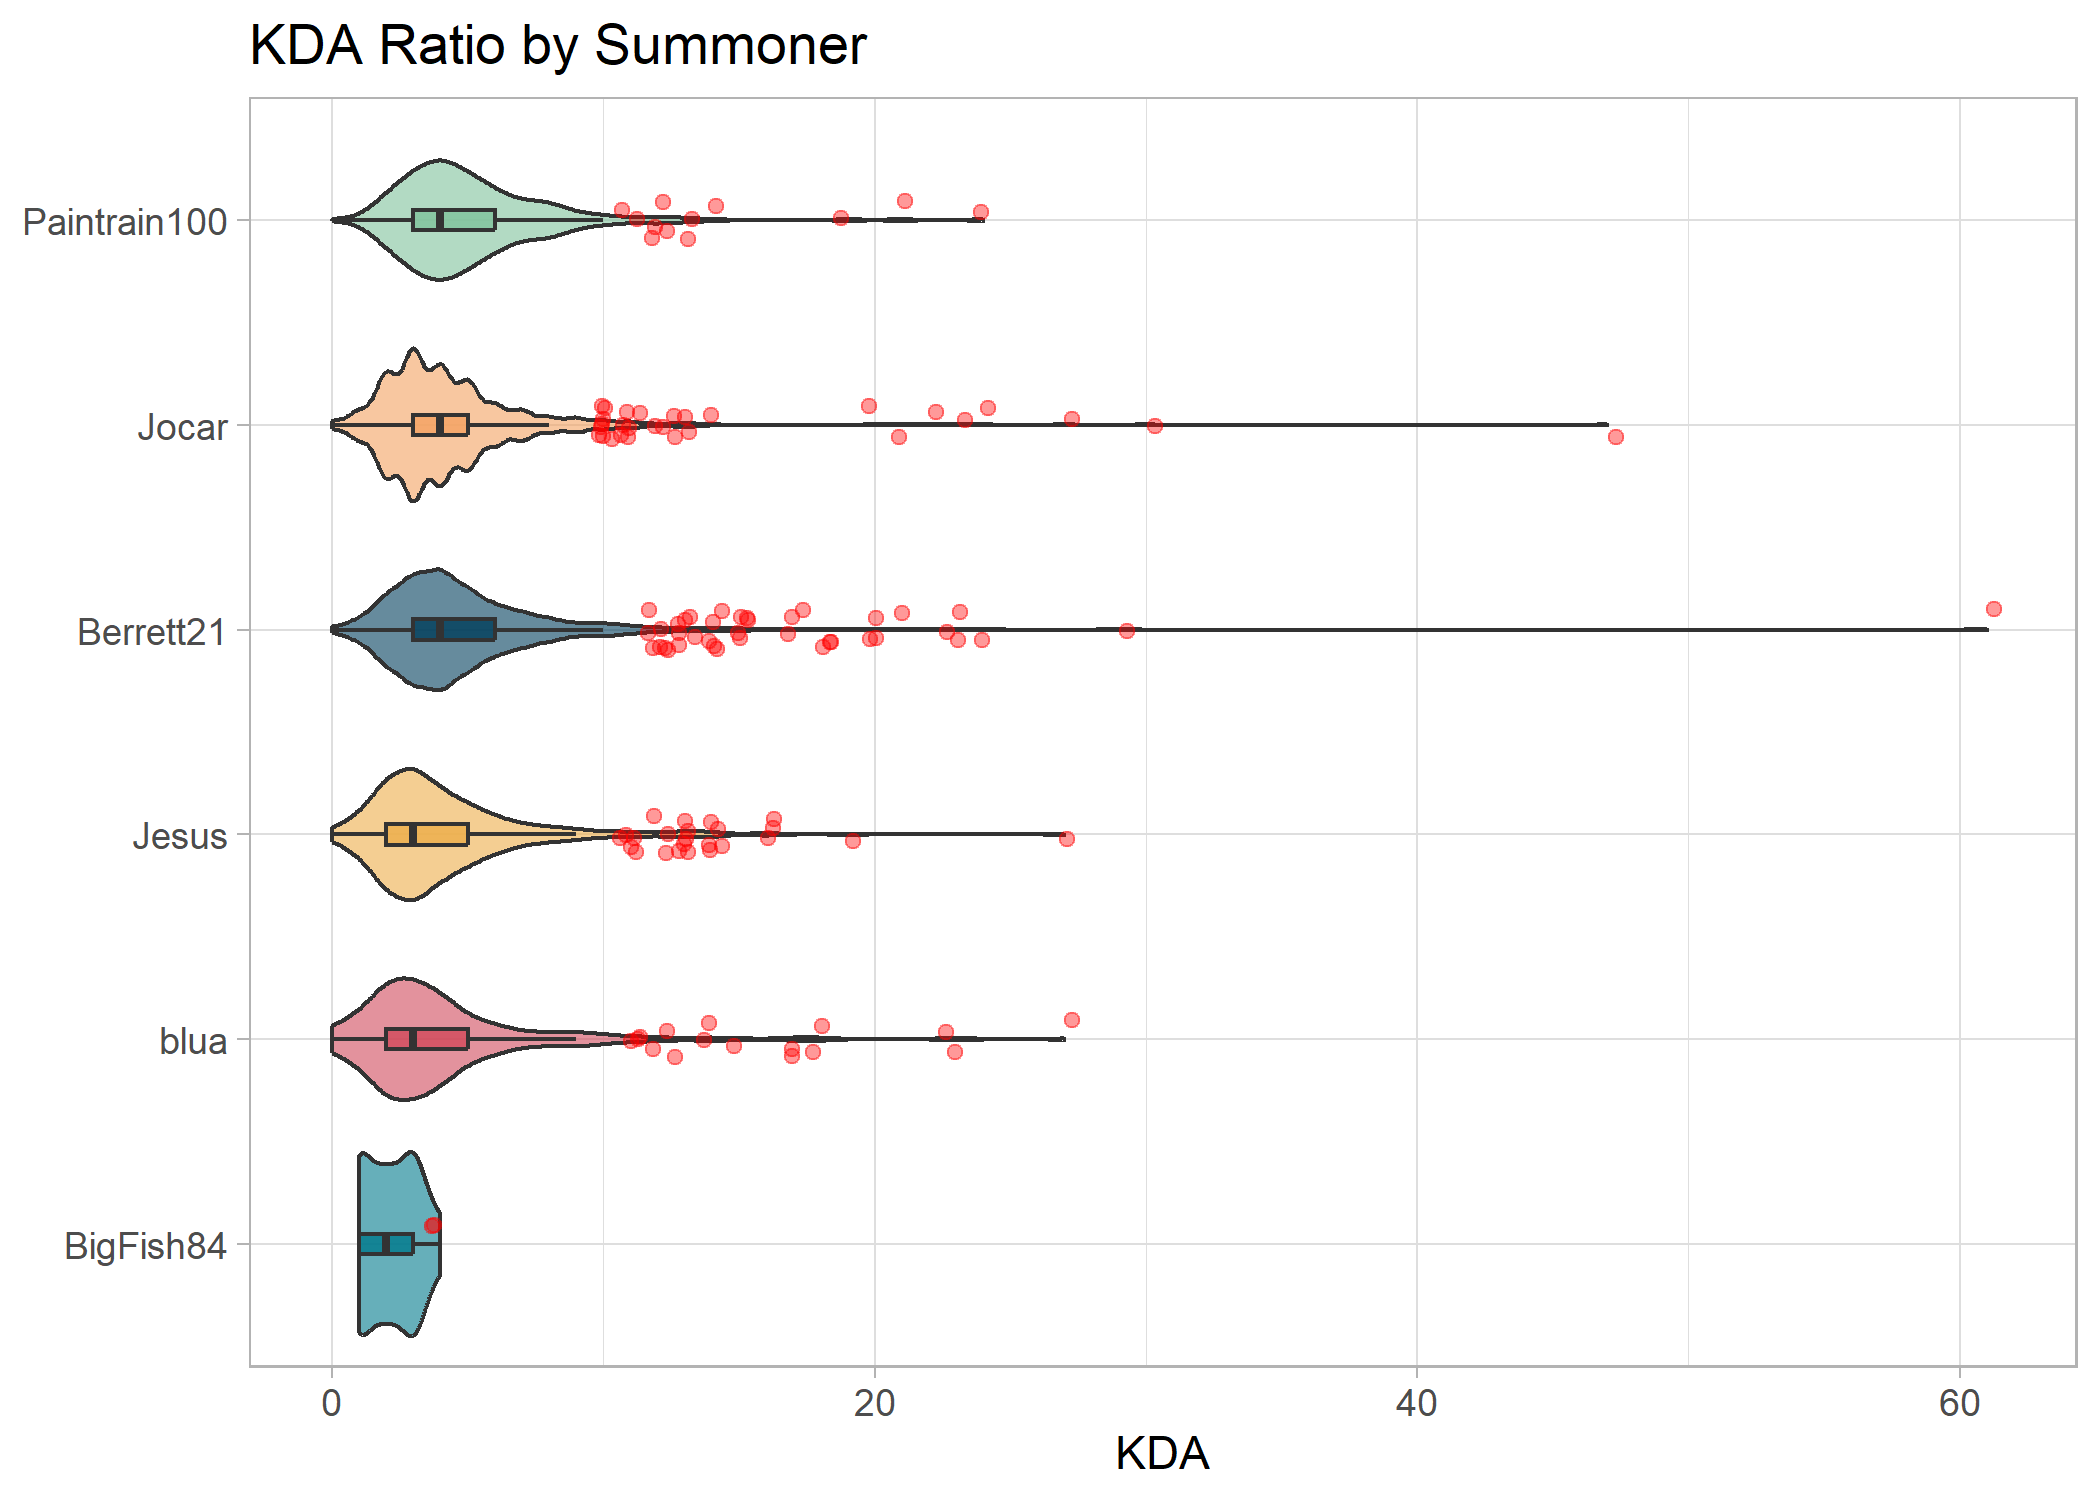
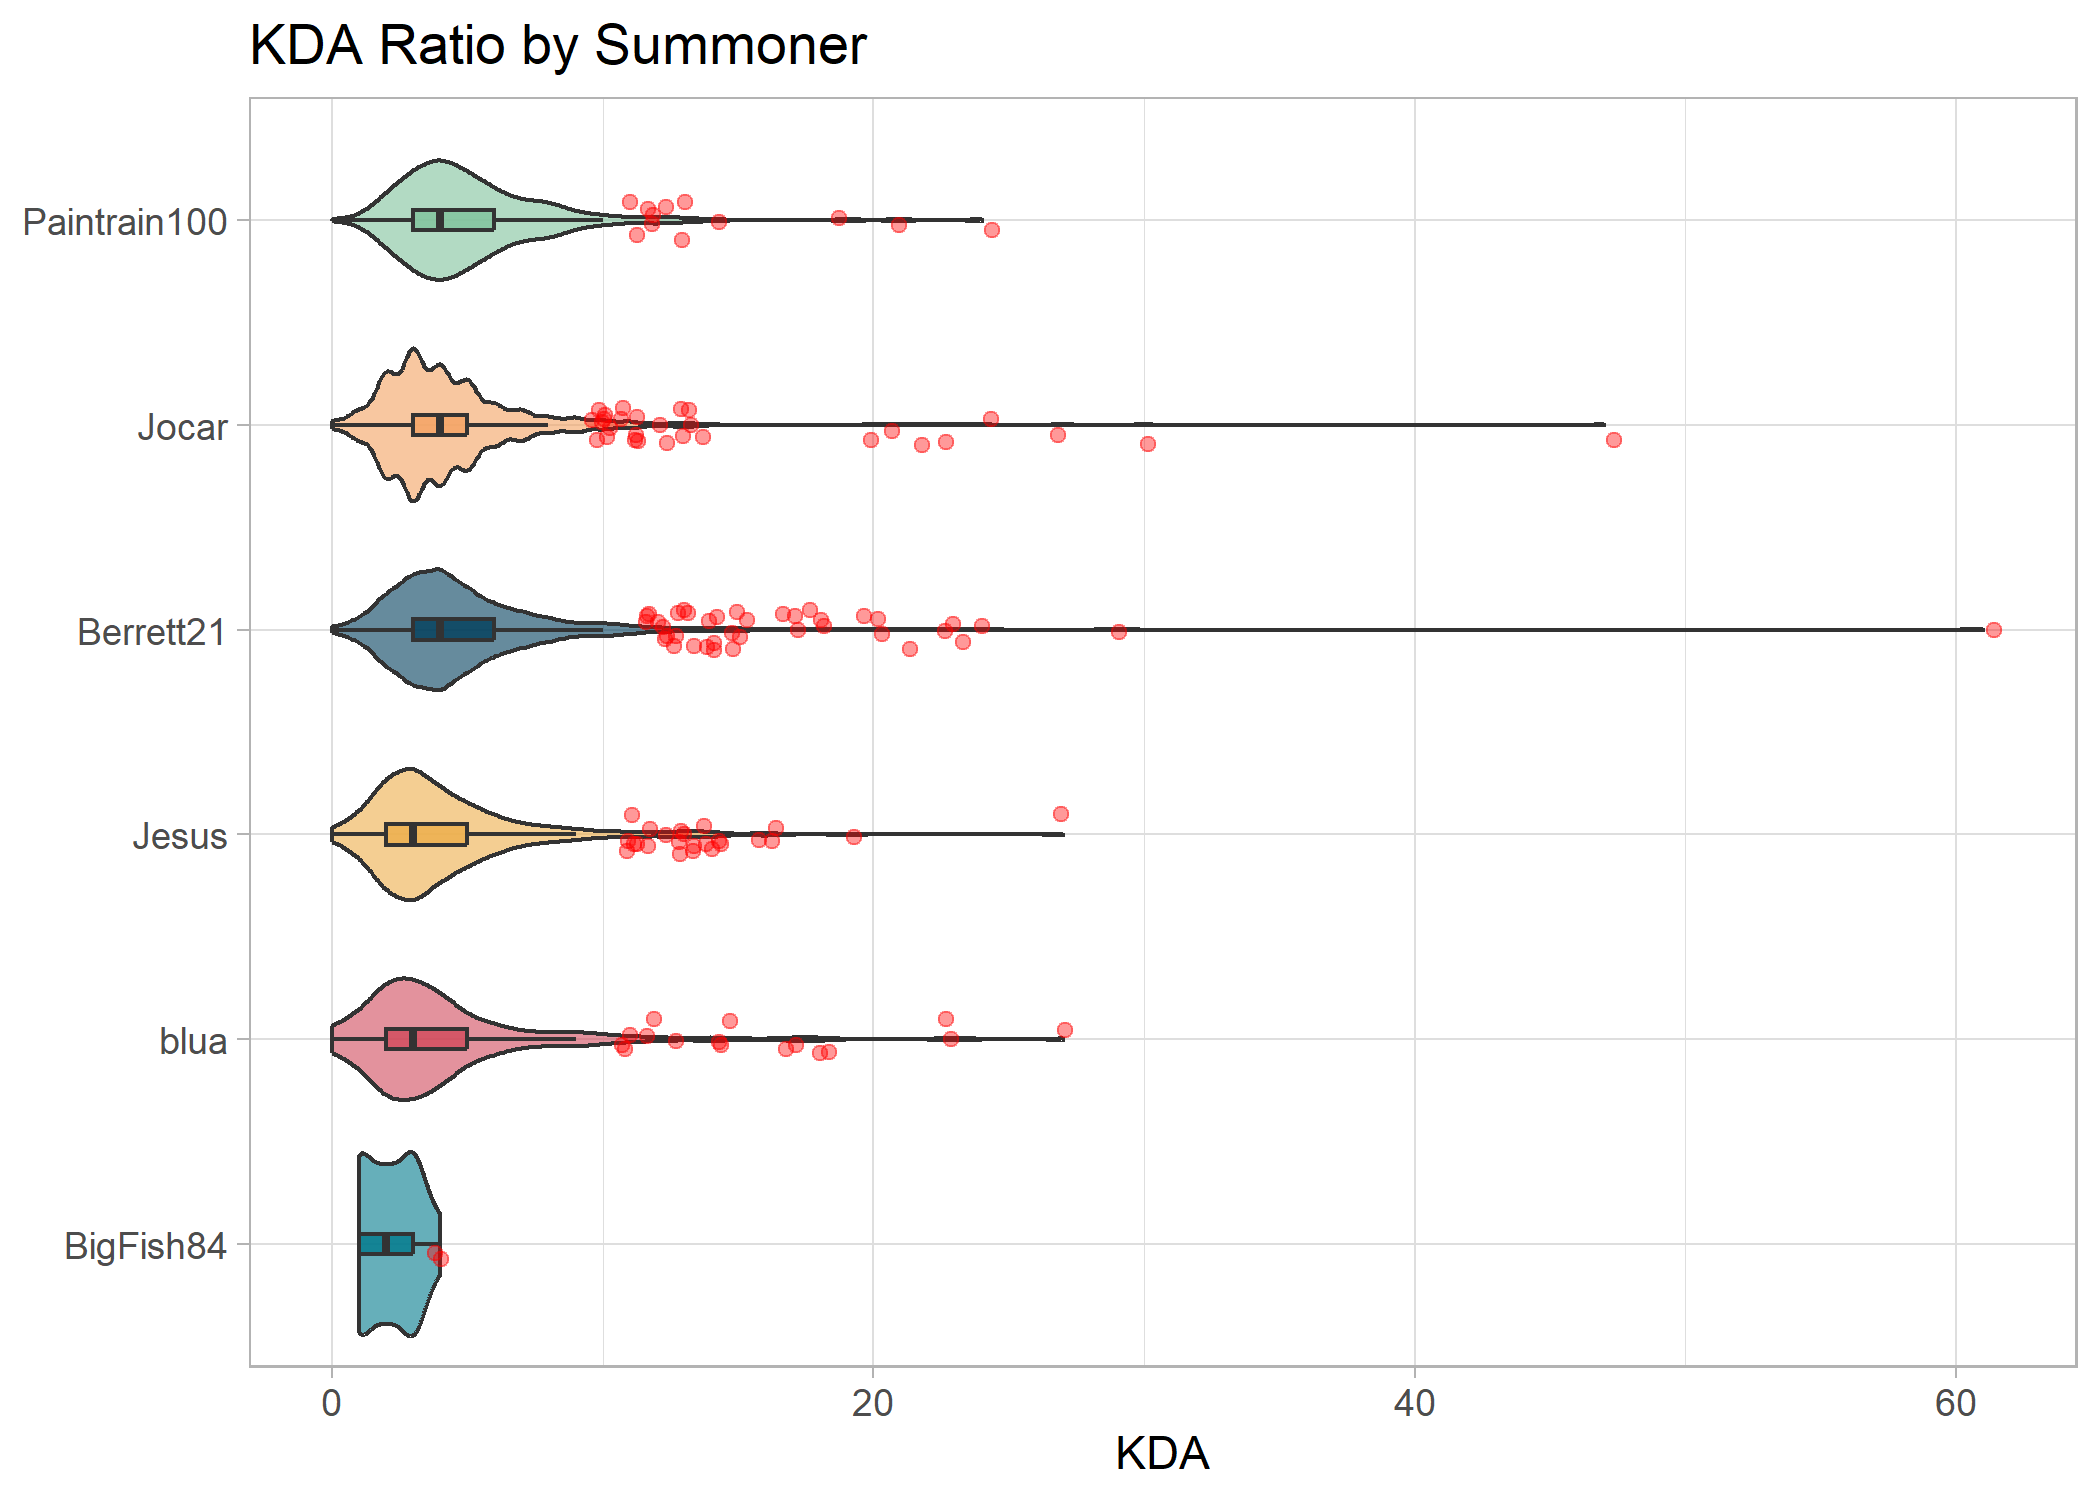
Fix win column rendering in last-games table (force html format)

diff --git a/README.md b/README.md
@@ -103,9 +103,7 @@ Anivia
 
 <td style="text-align:left;">
 
-\<span style=“font-weight: bold; color: white !important;border-radius:
-4px; padding-right: 4px; padding-left: 4px; background-color: rgba(220,
-20, 60, 1) !important;” \>FALSE\</span\>
+<span style="font-weight: bold;    color: white !important;border-radius: 4px; padding-right: 4px; padding-left: 4px; background-color: rgba(220, 20, 60, 1) !important;">FALSE</span>
 </td>
 
 <td style="text-align:right;">
@@ -149,9 +147,7 @@ Leblanc
 
 <td style="text-align:left;">
 
-\<span style=“font-weight: bold; color: white !important;border-radius:
-4px; padding-right: 4px; padding-left: 4px; background-color: rgba(220,
-20, 60, 1) !important;” \>FALSE\</span\>
+<span style="font-weight: bold;    color: white !important;border-radius: 4px; padding-right: 4px; padding-left: 4px; background-color: rgba(220, 20, 60, 1) !important;">FALSE</span>
 </td>
 
 <td style="text-align:right;">
@@ -195,9 +191,7 @@ Fizz
 
 <td style="text-align:left;">
 
-\<span style=“font-weight: bold; color: white !important;border-radius:
-4px; padding-right: 4px; padding-left: 4px; background-color: rgba(60,
-179, 113, 1) !important;” \>TRUE\</span\>
+<span style="font-weight: bold;    color: white !important;border-radius: 4px; padding-right: 4px; padding-left: 4px; background-color: rgba(60, 179, 113, 1) !important;">TRUE</span>
 </td>
 
 <td style="text-align:right;">
@@ -241,9 +235,7 @@ Jinx
 
 <td style="text-align:left;">
 
-\<span style=“font-weight: bold; color: white !important;border-radius:
-4px; padding-right: 4px; padding-left: 4px; background-color: rgba(220,
-20, 60, 1) !important;” \>FALSE\</span\>
+<span style="font-weight: bold;    color: white !important;border-radius: 4px; padding-right: 4px; padding-left: 4px; background-color: rgba(220, 20, 60, 1) !important;">FALSE</span>
 </td>
 
 <td style="text-align:right;">
@@ -287,9 +279,7 @@ MissFortune
 
 <td style="text-align:left;">
 
-\<span style=“font-weight: bold; color: white !important;border-radius:
-4px; padding-right: 4px; padding-left: 4px; background-color: rgba(60,
-179, 113, 1) !important;” \>TRUE\</span\>
+<span style="font-weight: bold;    color: white !important;border-radius: 4px; padding-right: 4px; padding-left: 4px; background-color: rgba(60, 179, 113, 1) !important;">TRUE</span>
 </td>
 
 <td style="text-align:right;">
@@ -342,9 +332,7 @@ Lulu
 
 <td style="text-align:left;">
 
-\<span style=“font-weight: bold; color: white !important;border-radius:
-4px; padding-right: 4px; padding-left: 4px; background-color: rgba(220,
-20, 60, 1) !important;” \>FALSE\</span\>
+<span style="font-weight: bold;    color: white !important;border-radius: 4px; padding-right: 4px; padding-left: 4px; background-color: rgba(220, 20, 60, 1) !important;">FALSE</span>
 </td>
 
 <td style="text-align:right;">
@@ -388,9 +376,7 @@ MasterYi
 
 <td style="text-align:left;">
 
-\<span style=“font-weight: bold; color: white !important;border-radius:
-4px; padding-right: 4px; padding-left: 4px; background-color: rgba(220,
-20, 60, 1) !important;” \>FALSE\</span\>
+<span style="font-weight: bold;    color: white !important;border-radius: 4px; padding-right: 4px; padding-left: 4px; background-color: rgba(220, 20, 60, 1) !important;">FALSE</span>
 </td>
 
 <td style="text-align:right;">
@@ -434,9 +420,7 @@ MasterYi
 
 <td style="text-align:left;">
 
-\<span style=“font-weight: bold; color: white !important;border-radius:
-4px; padding-right: 4px; padding-left: 4px; background-color: rgba(220,
-20, 60, 1) !important;” \>FALSE\</span\>
+<span style="font-weight: bold;    color: white !important;border-radius: 4px; padding-right: 4px; padding-left: 4px; background-color: rgba(220, 20, 60, 1) !important;">FALSE</span>
 </td>
 
 <td style="text-align:right;">
@@ -480,9 +464,7 @@ Renekton
 
 <td style="text-align:left;">
 
-\<span style=“font-weight: bold; color: white !important;border-radius:
-4px; padding-right: 4px; padding-left: 4px; background-color: rgba(220,
-20, 60, 1) !important;” \>FALSE\</span\>
+<span style="font-weight: bold;    color: white !important;border-radius: 4px; padding-right: 4px; padding-left: 4px; background-color: rgba(220, 20, 60, 1) !important;">FALSE</span>
 </td>
 
 <td style="text-align:right;">
@@ -526,9 +508,7 @@ Yone
 
 <td style="text-align:left;">
 
-\<span style=“font-weight: bold; color: white !important;border-radius:
-4px; padding-right: 4px; padding-left: 4px; background-color: rgba(220,
-20, 60, 1) !important;” \>FALSE\</span\>
+<span style="font-weight: bold;    color: white !important;border-radius: 4px; padding-right: 4px; padding-left: 4px; background-color: rgba(220, 20, 60, 1) !important;">FALSE</span>
 </td>
 
 <td style="text-align:right;">
@@ -581,9 +561,7 @@ Vex
 
 <td style="text-align:left;">
 
-\<span style=“font-weight: bold; color: white !important;border-radius:
-4px; padding-right: 4px; padding-left: 4px; background-color: rgba(60,
-179, 113, 1) !important;” \>TRUE\</span\>
+<span style="font-weight: bold;    color: white !important;border-radius: 4px; padding-right: 4px; padding-left: 4px; background-color: rgba(60, 179, 113, 1) !important;">TRUE</span>
 </td>
 
 <td style="text-align:right;">
@@ -627,9 +605,7 @@ Brand
 
 <td style="text-align:left;">
 
-\<span style=“font-weight: bold; color: white !important;border-radius:
-4px; padding-right: 4px; padding-left: 4px; background-color: rgba(60,
-179, 113, 1) !important;” \>TRUE\</span\>
+<span style="font-weight: bold;    color: white !important;border-radius: 4px; padding-right: 4px; padding-left: 4px; background-color: rgba(60, 179, 113, 1) !important;">TRUE</span>
 </td>
 
 <td style="text-align:right;">
@@ -673,9 +649,7 @@ Pyke
 
 <td style="text-align:left;">
 
-\<span style=“font-weight: bold; color: white !important;border-radius:
-4px; padding-right: 4px; padding-left: 4px; background-color: rgba(220,
-20, 60, 1) !important;” \>FALSE\</span\>
+<span style="font-weight: bold;    color: white !important;border-radius: 4px; padding-right: 4px; padding-left: 4px; background-color: rgba(220, 20, 60, 1) !important;">FALSE</span>
 </td>
 
 <td style="text-align:right;">
@@ -719,9 +693,7 @@ Senna
 
 <td style="text-align:left;">
 
-\<span style=“font-weight: bold; color: white !important;border-radius:
-4px; padding-right: 4px; padding-left: 4px; background-color: rgba(220,
-20, 60, 1) !important;” \>FALSE\</span\>
+<span style="font-weight: bold;    color: white !important;border-radius: 4px; padding-right: 4px; padding-left: 4px; background-color: rgba(220, 20, 60, 1) !important;">FALSE</span>
 </td>
 
 <td style="text-align:right;">
@@ -765,9 +737,7 @@ Zyra
 
 <td style="text-align:left;">
 
-\<span style=“font-weight: bold; color: white !important;border-radius:
-4px; padding-right: 4px; padding-left: 4px; background-color: rgba(220,
-20, 60, 1) !important;” \>FALSE\</span\>
+<span style="font-weight: bold;    color: white !important;border-radius: 4px; padding-right: 4px; padding-left: 4px; background-color: rgba(220, 20, 60, 1) !important;">FALSE</span>
 </td>
 
 <td style="text-align:right;">
@@ -820,9 +790,7 @@ Seraphine
 
 <td style="text-align:left;">
 
-\<span style=“font-weight: bold; color: white !important;border-radius:
-4px; padding-right: 4px; padding-left: 4px; background-color: rgba(60,
-179, 113, 1) !important;” \>TRUE\</span\>
+<span style="font-weight: bold;    color: white !important;border-radius: 4px; padding-right: 4px; padding-left: 4px; background-color: rgba(60, 179, 113, 1) !important;">TRUE</span>
 </td>
 
 <td style="text-align:right;">
@@ -866,9 +834,7 @@ Warwick
 
 <td style="text-align:left;">
 
-\<span style=“font-weight: bold; color: white !important;border-radius:
-4px; padding-right: 4px; padding-left: 4px; background-color: rgba(220,
-20, 60, 1) !important;” \>FALSE\</span\>
+<span style="font-weight: bold;    color: white !important;border-radius: 4px; padding-right: 4px; padding-left: 4px; background-color: rgba(220, 20, 60, 1) !important;">FALSE</span>
 </td>
 
 <td style="text-align:right;">
@@ -912,9 +878,7 @@ Lux
 
 <td style="text-align:left;">
 
-\<span style=“font-weight: bold; color: white !important;border-radius:
-4px; padding-right: 4px; padding-left: 4px; background-color: rgba(60,
-179, 113, 1) !important;” \>TRUE\</span\>
+<span style="font-weight: bold;    color: white !important;border-radius: 4px; padding-right: 4px; padding-left: 4px; background-color: rgba(60, 179, 113, 1) !important;">TRUE</span>
 </td>
 
 <td style="text-align:right;">
@@ -958,9 +922,7 @@ Brand
 
 <td style="text-align:left;">
 
-\<span style=“font-weight: bold; color: white !important;border-radius:
-4px; padding-right: 4px; padding-left: 4px; background-color: rgba(60,
-179, 113, 1) !important;” \>TRUE\</span\>
+<span style="font-weight: bold;    color: white !important;border-radius: 4px; padding-right: 4px; padding-left: 4px; background-color: rgba(60, 179, 113, 1) !important;">TRUE</span>
 </td>
 
 <td style="text-align:right;">
@@ -1004,9 +966,7 @@ Xerath
 
 <td style="text-align:left;">
 
-\<span style=“font-weight: bold; color: white !important;border-radius:
-4px; padding-right: 4px; padding-left: 4px; background-color: rgba(60,
-179, 113, 1) !important;” \>TRUE\</span\>
+<span style="font-weight: bold;    color: white !important;border-radius: 4px; padding-right: 4px; padding-left: 4px; background-color: rgba(60, 179, 113, 1) !important;">TRUE</span>
 </td>
 
 <td style="text-align:right;">
@@ -1059,9 +1019,7 @@ Varus
 
 <td style="text-align:left;">
 
-\<span style=“font-weight: bold; color: white !important;border-radius:
-4px; padding-right: 4px; padding-left: 4px; background-color: rgba(220,
-20, 60, 1) !important;” \>FALSE\</span\>
+<span style="font-weight: bold;    color: white !important;border-radius: 4px; padding-right: 4px; padding-left: 4px; background-color: rgba(220, 20, 60, 1) !important;">FALSE</span>
 </td>
 
 <td style="text-align:right;">
@@ -1105,9 +1063,7 @@ Nidalee
 
 <td style="text-align:left;">
 
-\<span style=“font-weight: bold; color: white !important;border-radius:
-4px; padding-right: 4px; padding-left: 4px; background-color: rgba(60,
-179, 113, 1) !important;” \>TRUE\</span\>
+<span style="font-weight: bold;    color: white !important;border-radius: 4px; padding-right: 4px; padding-left: 4px; background-color: rgba(60, 179, 113, 1) !important;">TRUE</span>
 </td>
 
 <td style="text-align:right;">
@@ -1151,9 +1107,7 @@ JarvanIV
 
 <td style="text-align:left;">
 
-\<span style=“font-weight: bold; color: white !important;border-radius:
-4px; padding-right: 4px; padding-left: 4px; background-color: rgba(60,
-179, 113, 1) !important;” \>TRUE\</span\>
+<span style="font-weight: bold;    color: white !important;border-radius: 4px; padding-right: 4px; padding-left: 4px; background-color: rgba(60, 179, 113, 1) !important;">TRUE</span>
 </td>
 
 <td style="text-align:right;">
@@ -1197,9 +1151,7 @@ Alistar
 
 <td style="text-align:left;">
 
-\<span style=“font-weight: bold; color: white !important;border-radius:
-4px; padding-right: 4px; padding-left: 4px; background-color: rgba(60,
-179, 113, 1) !important;” \>TRUE\</span\>
+<span style="font-weight: bold;    color: white !important;border-radius: 4px; padding-right: 4px; padding-left: 4px; background-color: rgba(60, 179, 113, 1) !important;">TRUE</span>
 </td>
 
 <td style="text-align:right;">
@@ -1243,9 +1195,7 @@ Nidalee
 
 <td style="text-align:left;">
 
-\<span style=“font-weight: bold; color: white !important;border-radius:
-4px; padding-right: 4px; padding-left: 4px; background-color: rgba(220,
-20, 60, 1) !important;” \>FALSE\</span\>
+<span style="font-weight: bold;    color: white !important;border-radius: 4px; padding-right: 4px; padding-left: 4px; background-color: rgba(220, 20, 60, 1) !important;">FALSE</span>
 </td>
 
 <td style="text-align:right;">
@@ -1298,9 +1248,7 @@ Nami
 
 <td style="text-align:left;">
 
-\<span style=“font-weight: bold; color: white !important;border-radius:
-4px; padding-right: 4px; padding-left: 4px; background-color: rgba(220,
-20, 60, 1) !important;” \>FALSE\</span\>
+<span style="font-weight: bold;    color: white !important;border-radius: 4px; padding-right: 4px; padding-left: 4px; background-color: rgba(220, 20, 60, 1) !important;">FALSE</span>
 </td>
 
 <td style="text-align:right;">
@@ -1344,9 +1292,7 @@ Janna
 
 <td style="text-align:left;">
 
-\<span style=“font-weight: bold; color: white !important;border-radius:
-4px; padding-right: 4px; padding-left: 4px; background-color: rgba(60,
-179, 113, 1) !important;” \>TRUE\</span\>
+<span style="font-weight: bold;    color: white !important;border-radius: 4px; padding-right: 4px; padding-left: 4px; background-color: rgba(60, 179, 113, 1) !important;">TRUE</span>
 </td>
 
 <td style="text-align:right;">
@@ -1390,9 +1336,7 @@ Lulu
 
 <td style="text-align:left;">
 
-\<span style=“font-weight: bold; color: white !important;border-radius:
-4px; padding-right: 4px; padding-left: 4px; background-color: rgba(220,
-20, 60, 1) !important;” \>FALSE\</span\>
+<span style="font-weight: bold;    color: white !important;border-radius: 4px; padding-right: 4px; padding-left: 4px; background-color: rgba(220, 20, 60, 1) !important;">FALSE</span>
 </td>
 
 <td style="text-align:right;">
@@ -1436,9 +1380,7 @@ Nami
 
 <td style="text-align:left;">
 
-\<span style=“font-weight: bold; color: white !important;border-radius:
-4px; padding-right: 4px; padding-left: 4px; background-color: rgba(220,
-20, 60, 1) !important;” \>FALSE\</span\>
+<span style="font-weight: bold;    color: white !important;border-radius: 4px; padding-right: 4px; padding-left: 4px; background-color: rgba(220, 20, 60, 1) !important;">FALSE</span>
 </td>
 
 <td style="text-align:right;">
@@ -1482,9 +1424,7 @@ Janna
 
 <td style="text-align:left;">
 
-\<span style=“font-weight: bold; color: white !important;border-radius:
-4px; padding-right: 4px; padding-left: 4px; background-color: rgba(60,
-179, 113, 1) !important;” \>TRUE\</span\>
+<span style="font-weight: bold;    color: white !important;border-radius: 4px; padding-right: 4px; padding-left: 4px; background-color: rgba(60, 179, 113, 1) !important;">TRUE</span>
 </td>
 
 <td style="text-align:right;">
